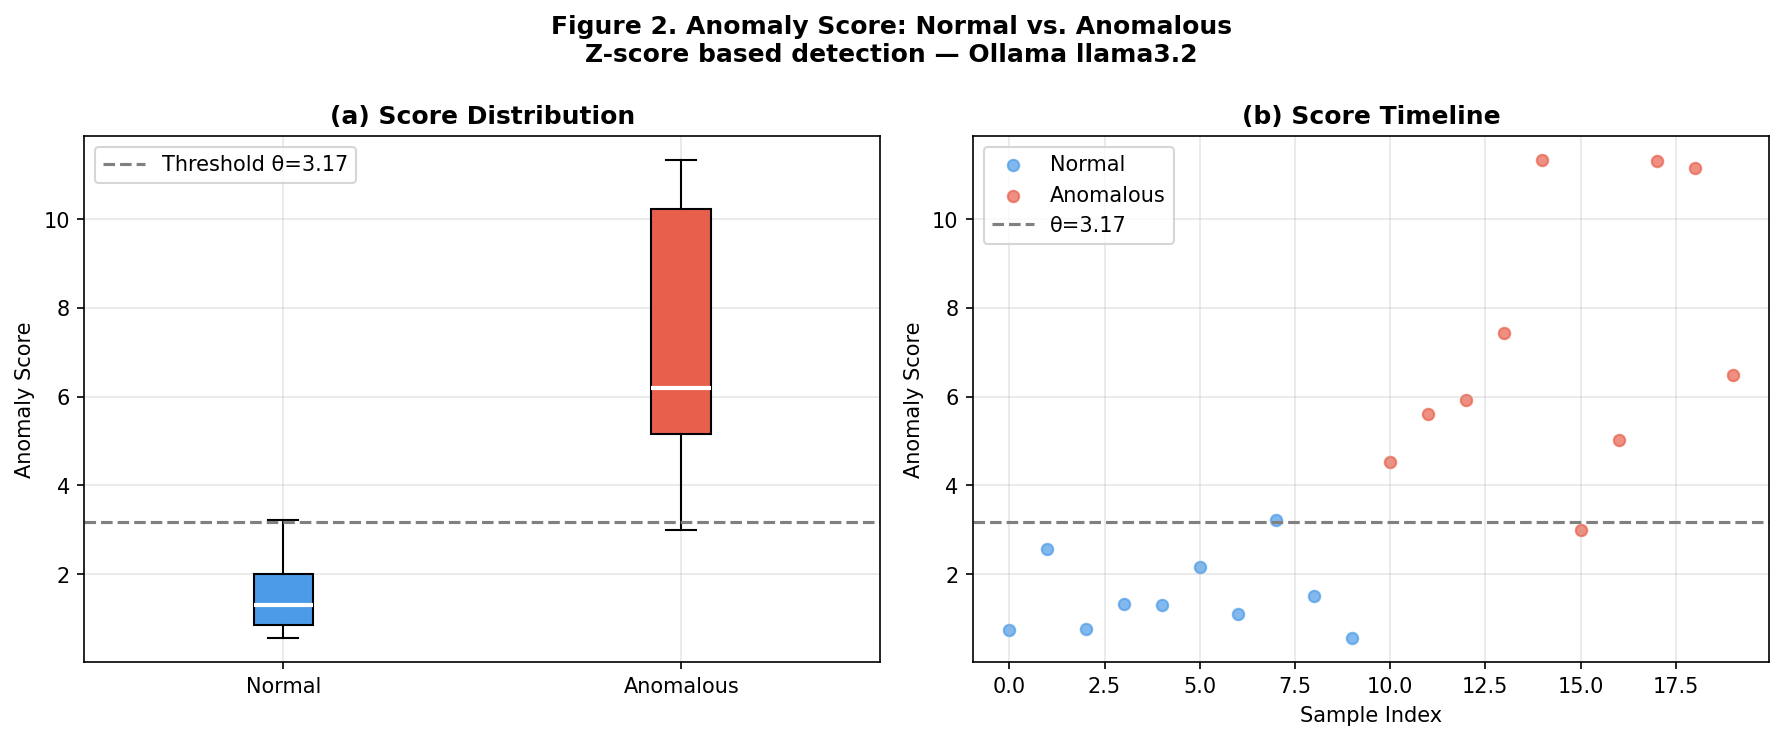
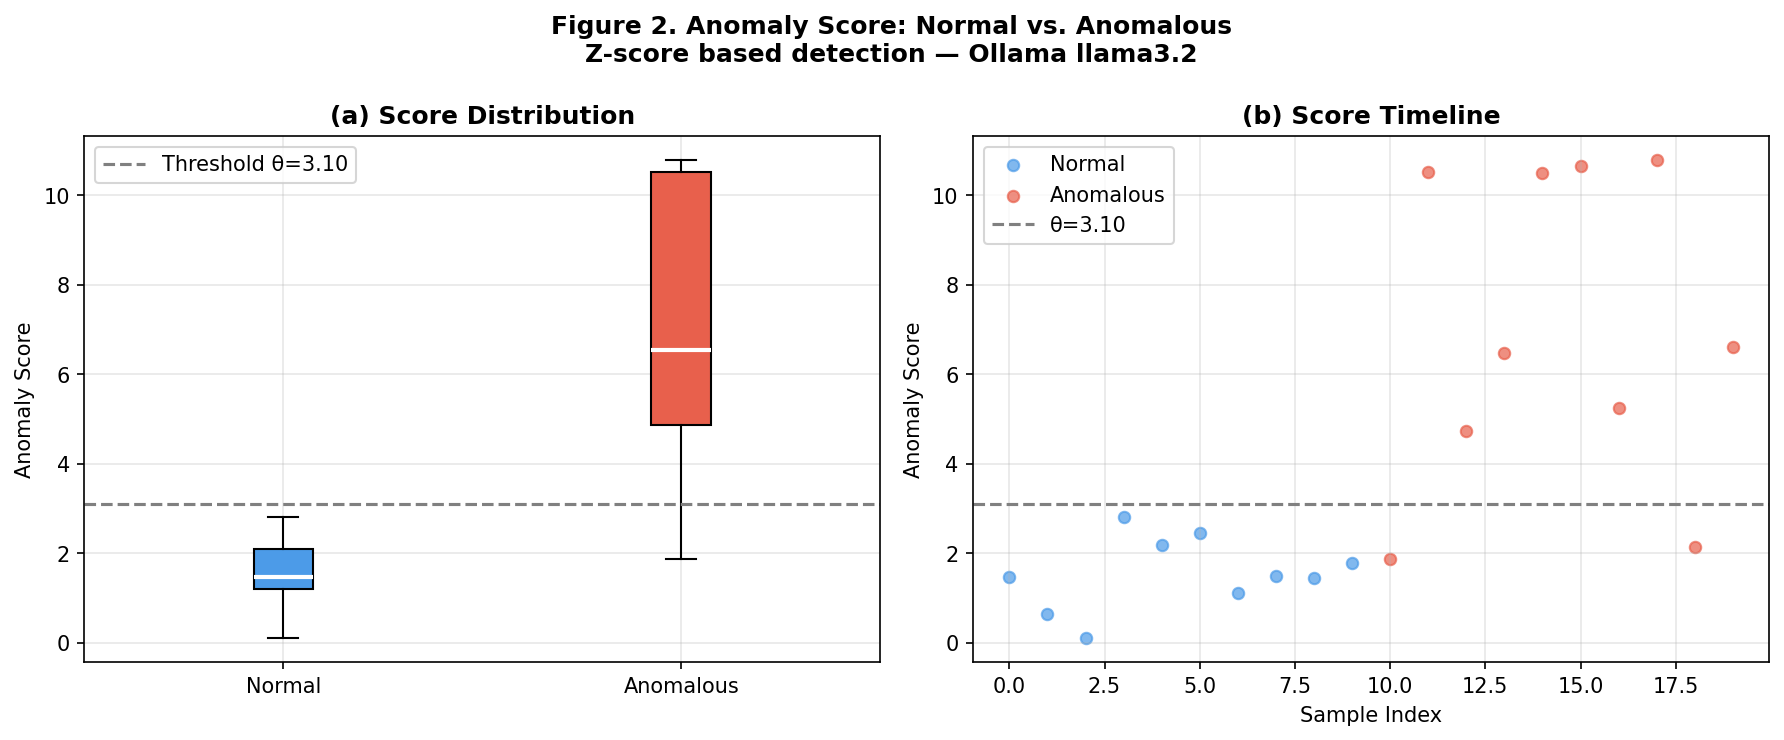
fix: switch to bidirectional detection threshold

diff --git a/quad_experiment/experiment.py b/quad_experiment/experiment.py
@@ -201,11 +201,12 @@ if len(n_df) > 1 and len(a_df) > 0:
     scaler   = StandardScaler().fit(n_df[FEATS])
     scores_n = np.linalg.norm(scaler.transform(n_df[FEATS]), axis=1)
     scores_a = np.linalg.norm(scaler.transform(a_df[FEATS]), axis=1)
-    theta    = scores_n.mean() + 2*scores_n.std()
-    tpr      = (scores_a > theta).mean()
-    fpr      = (scores_n > theta).mean()
+    upper = scores_n.mean() + 2*scores_n.std()
+    lower = scores_n.mean() - 2*scores_n.std()
+    tpr   = ((scores_a > upper) | (scores_a < lower)).mean()
+    fpr   = ((scores_n > upper) | (scores_n < lower)).mean()
     print(f"[ 탐지 성능 — Researcher ]")
-    print(f"  TPR: {tpr:.4f}  FPR: {fpr:.4f}  θ={theta:.4f}")
+    print(f"  TPR: {tpr:.4f}  FPR: {fpr:.4f}  upper={upper:.4f}  lower={lower:.4f}")
 
 # ══════════════════════════════════════════════
 # Figure 1: 에이전트별 피처 분포